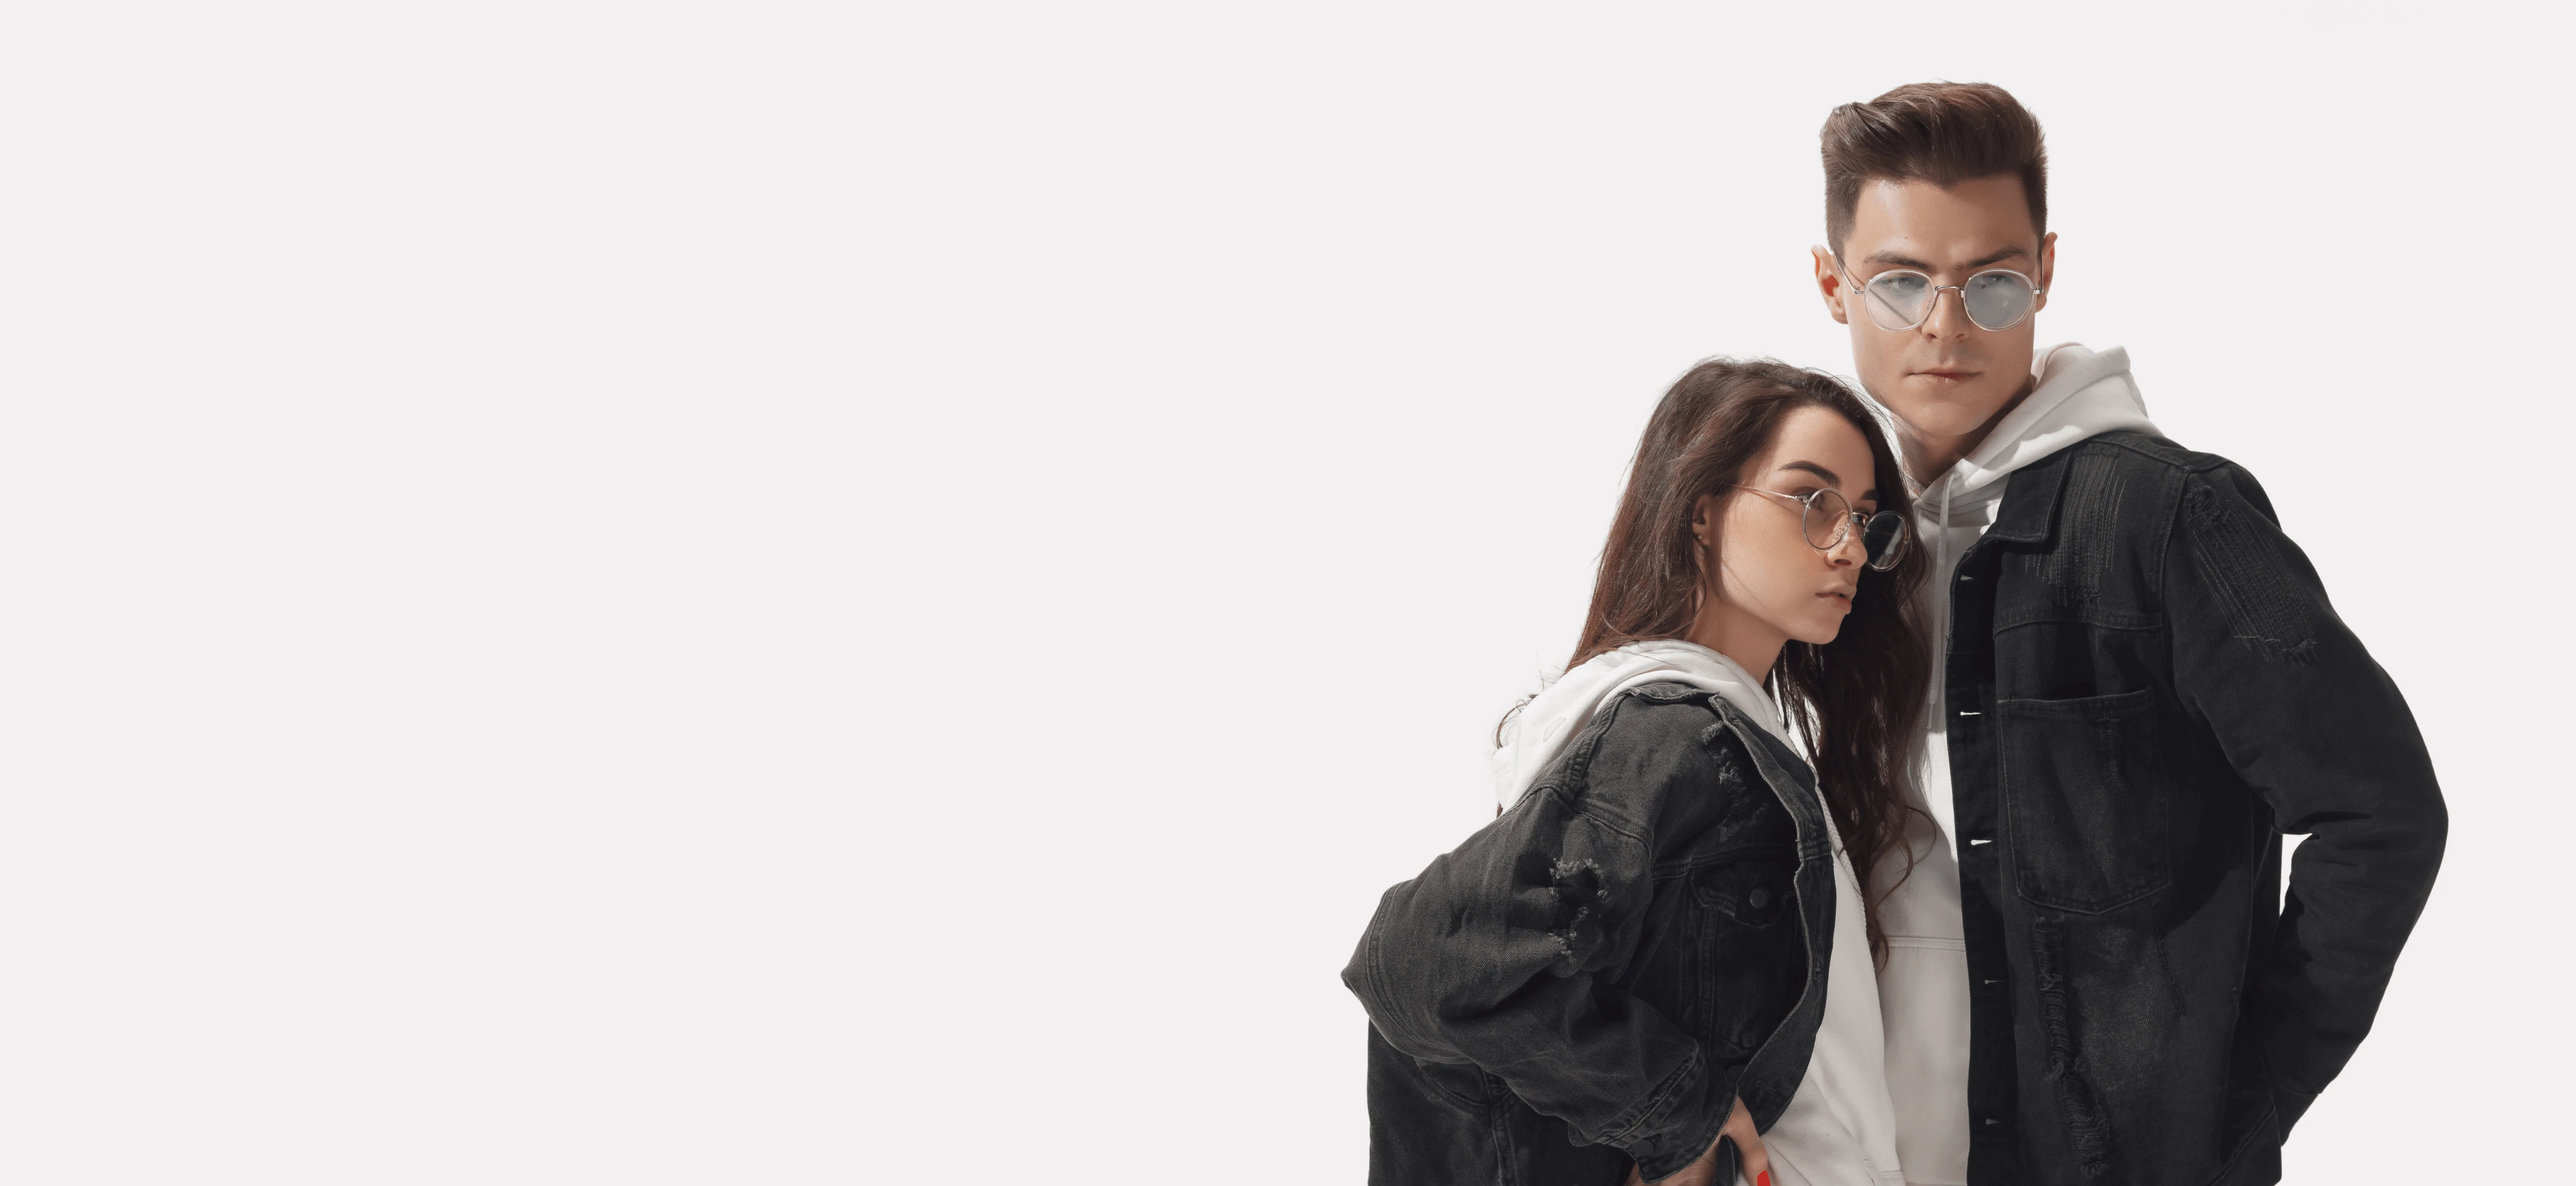
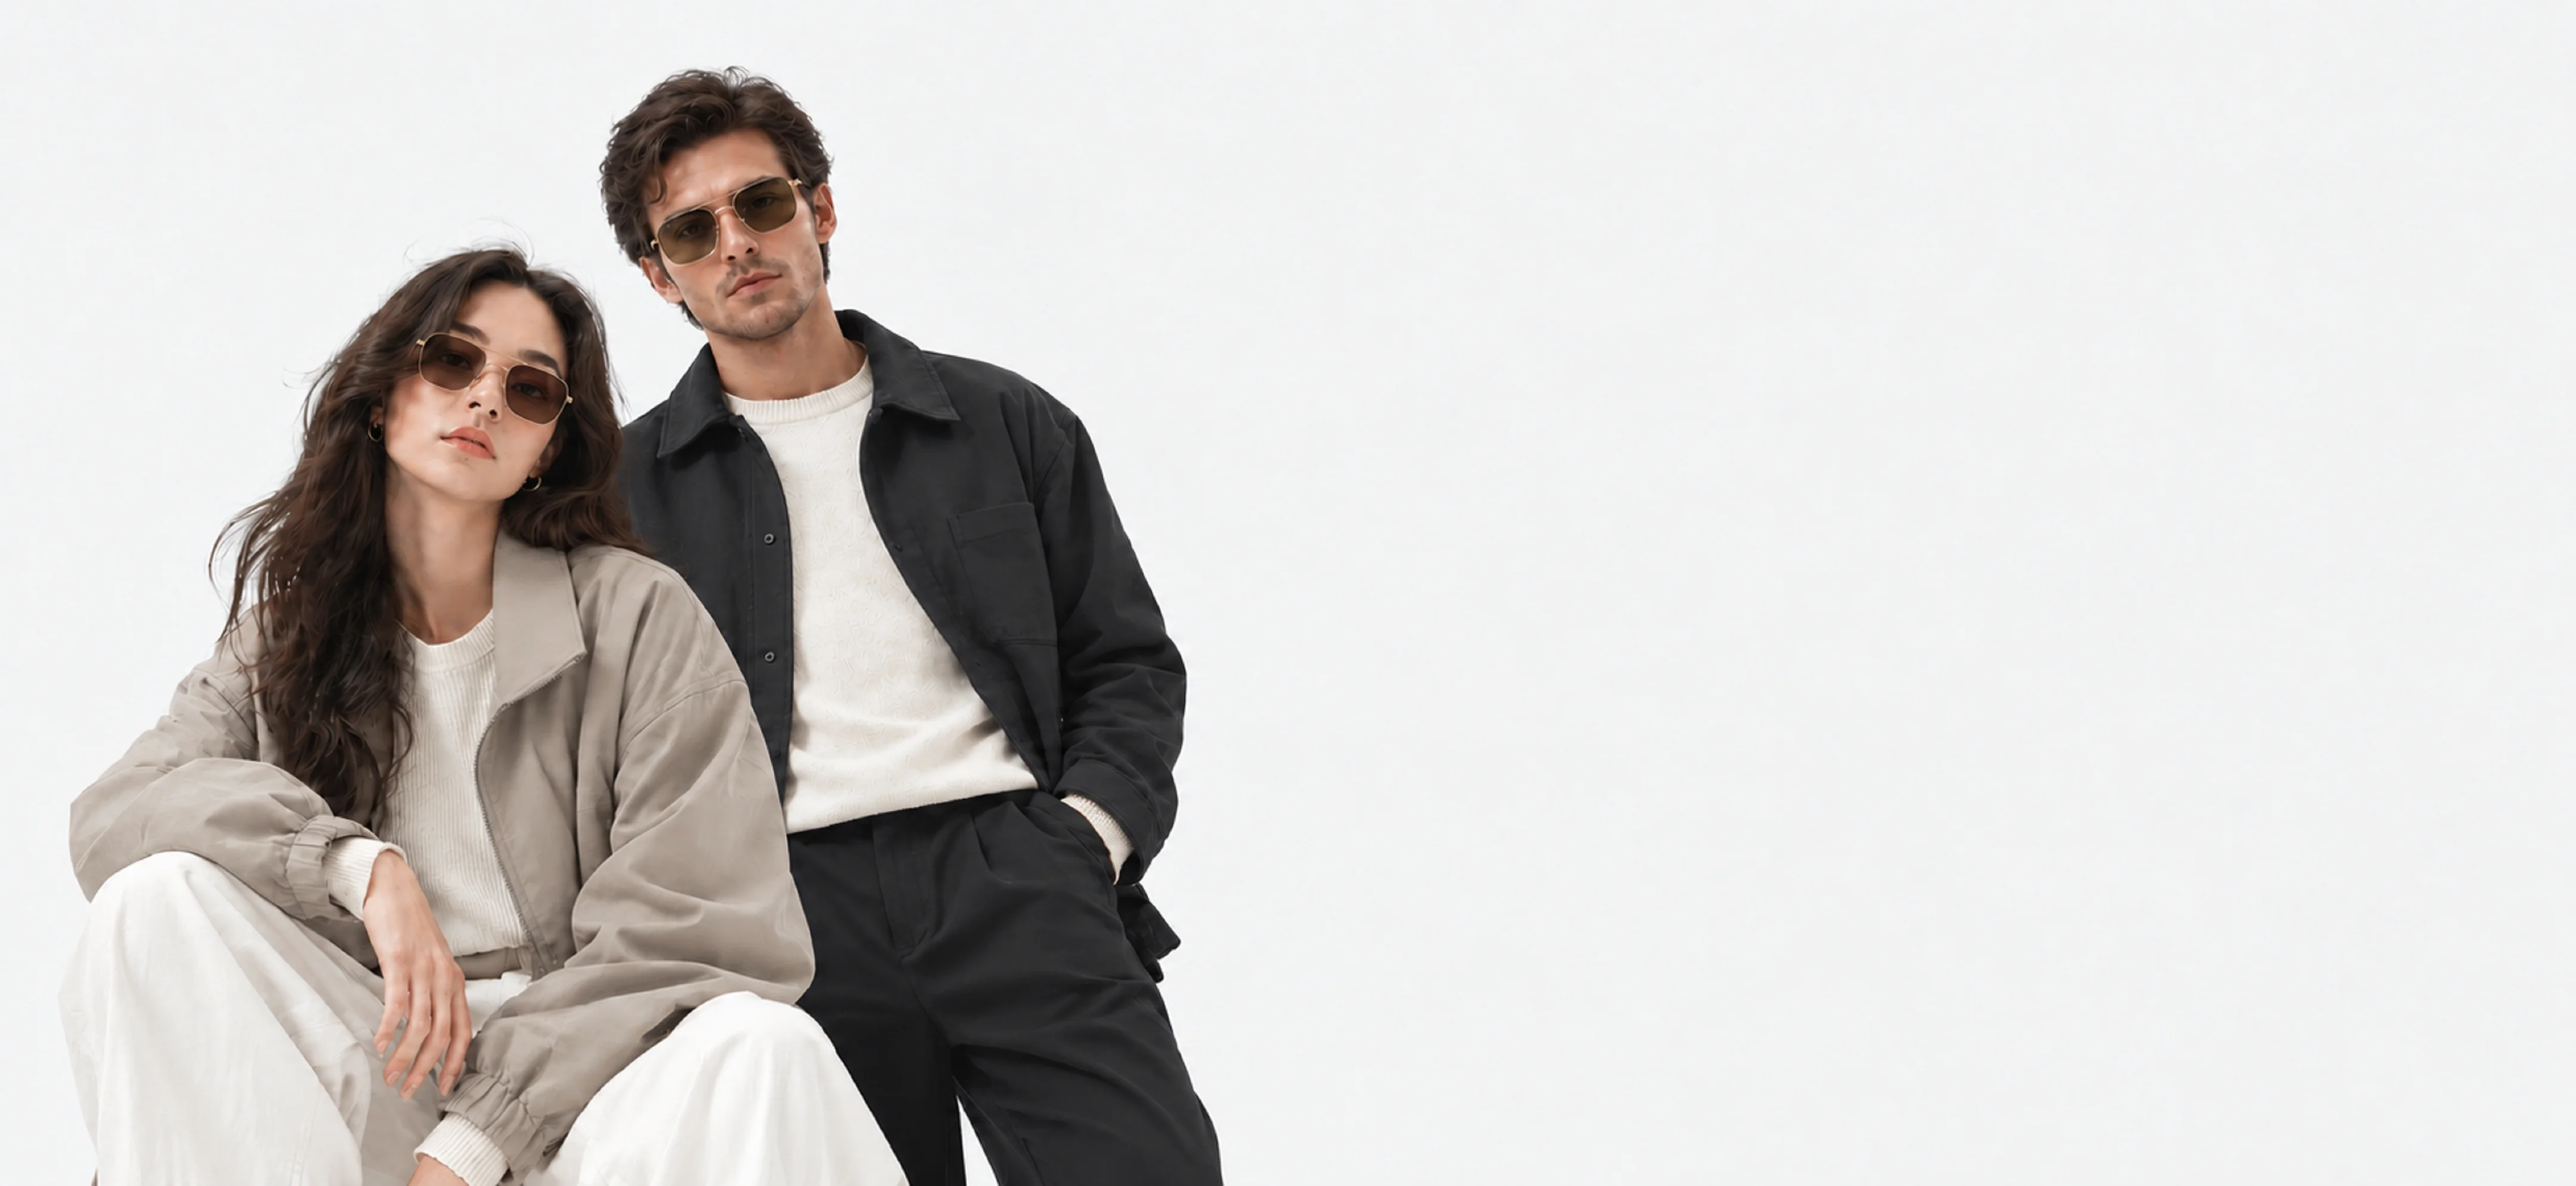
Polish images for hero and sections

diff --git a/src/constants/productDetailConst.ts b/src/constants/productDetailConst.ts
@@ -92,7 +92,7 @@ export const allProductDetails: ProductDetail[] = [
   {
     ...allProducts[0],
     ratingCount: 120,
-    category: "T-shirts",
+    category: "T-Shirts",
     dressStyle: "Casual",
     description:
       "A casual t-shirt featuring distinctive tape details. Made from soft, breathable cotton for all-day comfort and effortless style.",
@@ -108,7 +108,7 @@ export const allProductDetails: ProductDetail[] = [
   {
     ...allProducts[1],
     ratingCount: 156,
-    category: "T-shirts",
+    category: "T-Shirts",
     dressStyle: "Formal",
     description:
       "A classic polo collar t-shirt with a clean, structured look. Crafted from breathable piqué fabric for smart-casual styling.",
@@ -124,7 +124,7 @@ export const allProductDetails: ProductDetail[] = [
   {
     ...allProducts[2],
     ratingCount: 75,
-    category: "T-shirts",
+    category: "T-Shirts",
     dressStyle: "Casual",
     description:
       "A clean and classic pink polo shirt with a relaxed fit. Perfect for smart-casual occasions or everyday wear.",
@@ -140,7 +140,7 @@ export const allProductDetails: ProductDetail[] = [
   {
     ...allProducts[3],
     ratingCount: 340,
-    category: "T-shirts",
+    category: "T-Shirts",
     dressStyle: "Gym",
     description:
       "A sporty raglan tee with bold sleeve stripes. Lightweight fabric makes it ideal for active days or casual wear.",
@@ -188,7 +188,7 @@ export const allProductDetails: ProductDetail[] = [
   {
     ...allProducts[6],
     ratingCount: 188,
-    category: "T-shirts",
+    category: "T-Shirts",
     dressStyle: "Casual",
     description:
       "A bold colorblock raglan tee with striking sleeve contrast. Crafted from premium cotton for a comfortable, relaxed fit.",
@@ -220,7 +220,7 @@ export const allProductDetails: ProductDetail[] = [
   {
     ...allProducts[8],
     ratingCount: 203,
-    category: "T-shirts",
+    category: "T-Shirts",
     dressStyle: "Party",
     description:
       "An expressive graphic tee with vivid artwork. Made from soft cotton blend for comfortable everyday wear.",
@@ -268,7 +268,7 @@ export const allProductDetails: ProductDetail[] = [
   {
     ...allProducts[11],
     ratingCount: 289,
-    category: "T-shirts",
+    category: "T-Shirts",
     dressStyle: "Party",
     description:
       "A minimal black tee with subtle branding and tape sleeve detailing. Clean design for a modern, understated look.",
@@ -284,7 +284,7 @@ export const allProductDetails: ProductDetail[] = [
   {
     ...allProducts[12],
     ratingCount: 451,
-    category: "T-shirts",
+    category: "T-Shirts",
     dressStyle: "Casual",
     description:
       "This graphic t-shirt which is perfect for any occasion. Crafted from a soft and breathable fabric, it offers superior comfort and style.",

diff --git a/src/constants/productConst.ts b/src/constants/productConst.ts
@@ -24,7 +24,7 @@ export interface Product {
 export const allProducts: Product[] = [
   {
     itemId: 1,
-    itemName: "T-shirt with Tape Details",
+    itemName: "T-Shirt with Tape Details",
     itemPrice: 120,
     itemRating: 4.5,
     discount: 0,
@@ -32,7 +32,7 @@ export const allProducts: Product[] = [
   },
   {
     itemId: 2,
-    itemName: "Polo Collar T-shirt",
+    itemName: "Polo Collar T-Shirt",
     itemPrice: 210,
     itemRating: 4.5,
     discount: 0,
@@ -48,7 +48,7 @@ export const allProducts: Product[] = [
   },
   {
     itemId: 4,
-    itemName: "Sleeve Stripped T-shirt",
+    itemName: "Sleeve Stripped T-Shirt",
     itemPrice: 160,
     itemRating: 5.0,
     discount: 30,
@@ -72,7 +72,7 @@ export const allProducts: Product[] = [
   },
   {
     itemId: 7,
-    itemName: "Courage Graphic T-shirt",
+    itemName: "Courage Graphic T-Shirt",
     itemPrice: 145,
     itemRating: 4.0,
     discount: 0,
@@ -88,7 +88,7 @@ export const allProducts: Product[] = [
   },
   {
     itemId: 9,
-    itemName: "War Courage Graphic T-shirt",
+    itemName: "War Courage Graphic T-Shirt",
     itemPrice: 135,
     itemRating: 4.0,
     discount: 0,
@@ -112,7 +112,7 @@ export const allProducts: Product[] = [
   },
   {
     itemId: 12,
-    itemName: "New Rules Tape Sleeve T-shirt",
+    itemName: "New Rules Tape Sleeve T-Shirt",
     itemPrice: 125,
     itemRating: 5.0,
     discount: 10,
@@ -120,7 +120,7 @@ export const allProducts: Product[] = [
   },
   {
     itemId: 13,
-    itemName: "One Life Graphic T-shirt",
+    itemName: "One Life Graphic T-Shirt",
     itemPrice: 300,
     itemRating: 4.5,
     discount: 40,

diff --git a/index.html b/index.html
@@ -8,7 +8,7 @@
     <title>WellCommerce - Fashion & Clothing Store</title>
     <meta
       name="description"
-      content="Shop the latest fashion at WellCommerce. Explore T-shirts, hoodies, jeans, and more from top brands like Gucci, Zara, and Calvin Klein."
+      content="Shop the latest fashion at WellCommerce. Explore t-shirts, hoodies, jeans, and more from top brands like Gucci, Zara, and Calvin Klein."
     />
     <meta
       name="keywords"
@@ -29,7 +29,7 @@
     />
     <meta
       property="og:description"
-      content="Shop the latest fashion at WellCommerce. Explore T-shirts, hoodies, jeans, and more from top brands like Gucci, Zara, and Calvin Klein."
+      content="Shop the latest fashion at WellCommerce. Explore t-shirts, hoodies, jeans, and more from top brands like Gucci, Zara, and Calvin Klein."
     />
     <meta property="og:url" content="https://wellcommerce.pages.dev" />
     <meta
@@ -48,7 +48,7 @@
     />
     <meta
       name="twitter:description"
-      content="Shop the latest fashion at WellCommerce. Explore T-shirts, hoodies, jeans, and more from top brands like Gucci, Zara, and Calvin Klein."
+      content="Shop the latest fashion at WellCommerce. Explore t-shirts, hoodies, jeans, and more from top brands like Gucci, Zara, and Calvin Klein."
     />
     <meta
       name="twitter:image"

diff --git a/src/constants/navbarConst.ts b/src/constants/navbarConst.ts
@@ -52,7 +52,7 @@ export interface NavDropdownLink {
   sections: NavDropdownSection[]
 }
 
-const browseWith = (key: string, value: string) =>
+export const browseWith = (key: string, value: string) =>
   `${PageRoutes.BROWSE}?${key}=${encodeURIComponent(value)}`
 
 export const navDropdownLinks: NavDropdownLink[] = [
@@ -69,8 +69,8 @@ export const navDropdownLinks: NavDropdownLink[] = [
             id: "tshirts",
             label: "T-Shirts",
             icon: Shirt,
-            to: browseWith(NavFilterParam.CATEGORY, "T-shirts"),
-            activeParam: { key: NavFilterParam.CATEGORY, value: "T-shirts" },
+            to: browseWith(NavFilterParam.CATEGORY, "T-Shirts"),
+            activeParam: { key: NavFilterParam.CATEGORY, value: "T-Shirts" },
           },
           {
             id: "shirts",
@@ -153,8 +153,8 @@ export const mobileNavSections: MobileNavSection[] = [
         id: "tshirts",
         label: "T-Shirts",
         icon: Shirt,
-        to: browseWith(NavFilterParam.CATEGORY, "T-shirts"),
-        activeParam: { key: NavFilterParam.CATEGORY, value: "T-shirts" },
+        to: browseWith(NavFilterParam.CATEGORY, "T-Shirts"),
+        activeParam: { key: NavFilterParam.CATEGORY, value: "T-Shirts" },
       },
       {
         id: "shirts",

diff --git a/src/styles/components.css b/src/styles/components.css
@@ -5,14 +5,45 @@
   width: 100%;
 }
 
-/* Desktop: restore the background image at lg (1024px+) */
 @media (min-width: 1024px) {
   .hero {
+    /* background-size: cover; */
     background-image: url(../assets/images/general/hero-lg.webp);
     background-repeat: no-repeat;
-    /* background-size: cover; */
-    background-size: auto 105%;
-    background-position: 60% 35%;
+    background-size: auto clamp(300px, 40vw, 450px);
+    background-position: 20% 20%;
+  }
+}
+
+/* Desktop: restore the background image at lg (1024px+) */
+@media (min-width: 1200px) {
+  .hero {
+    background-size: auto clamp(400px, 45vw, 500px);
+    background-position: 20% 20%;
     /* background-position: 70% 0%; */
+  }
+}
+
+@media (min-width: 1600px) {
+  .hero {
+    background-position: 24% 20%;
+  }
+}
+
+@media (min-width: 2000px) {
+  .hero {
+    background-position: 30% 20%;
+  }
+}
+
+@media (min-width: 2250px) {
+  .hero {
+    background-position: 38% 20%;
+  }
+}
+
+@media (min-width: 2500px) {
+  .hero {
+    background-position: 42% 20%;
   }
 }

diff --git a/src/hooks/productCategoryHooks.ts b/src/hooks/productCategoryHooks.ts
@@ -16,9 +16,11 @@ const ProductCategoryHooks = () => {
 
   // ── Seed initial state from URL params
   const paramCategory = searchParams.get(NavFilterParam.CATEGORY)
+  const paramStyle = searchParams.get(NavFilterParam.DRESS_STYLE)
   const paramSort = searchParams.get(NavFilterParam.SORT)
 
   const initialCategory = paramCategory ? [paramCategory] : []
+  const initialDressStyle = paramStyle ? [paramStyle] : []
   const initialSort: SortOptionType =
     filterSortOptions.find((o) => o === paramSort) ?? SortOption.MOST_POPULAR
 
@@ -30,7 +32,8 @@ const ProductCategoryHooks = () => {
     filterPriceRange.max,
   ])
   const [selectedCategory, setCategory] = useState<string[]>(initialCategory)
-  const [selectedDressStyle, setDressStyle] = useState<string[]>([])
+  const [selectedDressStyle, setDressStyle] =
+    useState<string[]>(initialDressStyle)
   const [sortOption, setSortOption] = useState<SortOptionType>(initialSort)
   const [currentPage, setCurrentPage] = useState(1)
 

diff --git a/src/components/section/DressStyle.tsx b/src/components/section/DressStyle.tsx
@@ -2,7 +2,7 @@ import type { DressStyle } from "@/constants/homepageConst"
 
 import { cn } from "@/lib/utils"
 import { Link } from "react-router-dom"
-import { PageRoutes } from "@/config/routes/routes"
+import { browseWith, NavFilterParam } from "@/constants/navbarConst"
 
 interface BrowseStyleSectionProps {
   styles: DressStyle[]
@@ -22,7 +22,7 @@ export const BrowseStyleSection = ({ styles }: BrowseStyleSectionProps) => (
           {styles.map((style) => (
             <Link
               key={style.label}
-              to={PageRoutes.BROWSE}
+              to={browseWith(NavFilterParam.DRESS_STYLE, style.label)}
               className={cn(
                 "group relative overflow-hidden rounded-[20px] bg-background",
                 // wide cards span 2 columns on lg, narrow span 1

diff --git a/src/components/section/Hero.tsx b/src/components/section/Hero.tsx
@@ -12,7 +12,8 @@ const Hero = () => {
         <div className="container mx-auto gap-10 px-4 lg:px-10">
           {/* Mobile: stacked column  text then image. Desktop: side-by-side row */}
           <div className="flex w-full flex-col lg:flex-row lg:justify-start">
-            <div className="flex flex-col md:items-center lg:basis-7/12 lg:items-start">
+            <div className="lg:basis-6/14"></div>
+            <div className="flex flex-col md:items-center lg:basis-8/14 lg:items-start">
               <h1 className="mb-4 text-2xl md:text-5xl">
                 FIND CLOTHES THAT MATCHES YOUR STYLE
               </h1>

diff --git a/src/constants/categoryConst.ts b/src/constants/categoryConst.ts
@@ -30,7 +30,7 @@ export const filterSizes: ProductSizeType[] = [
 ]
 
 export const filterCategories: string[] = [
-  "T-shirts",
+  "T-Shirts",
   "Long Sleeved",
   "Hoodie",
   "Shorts",
